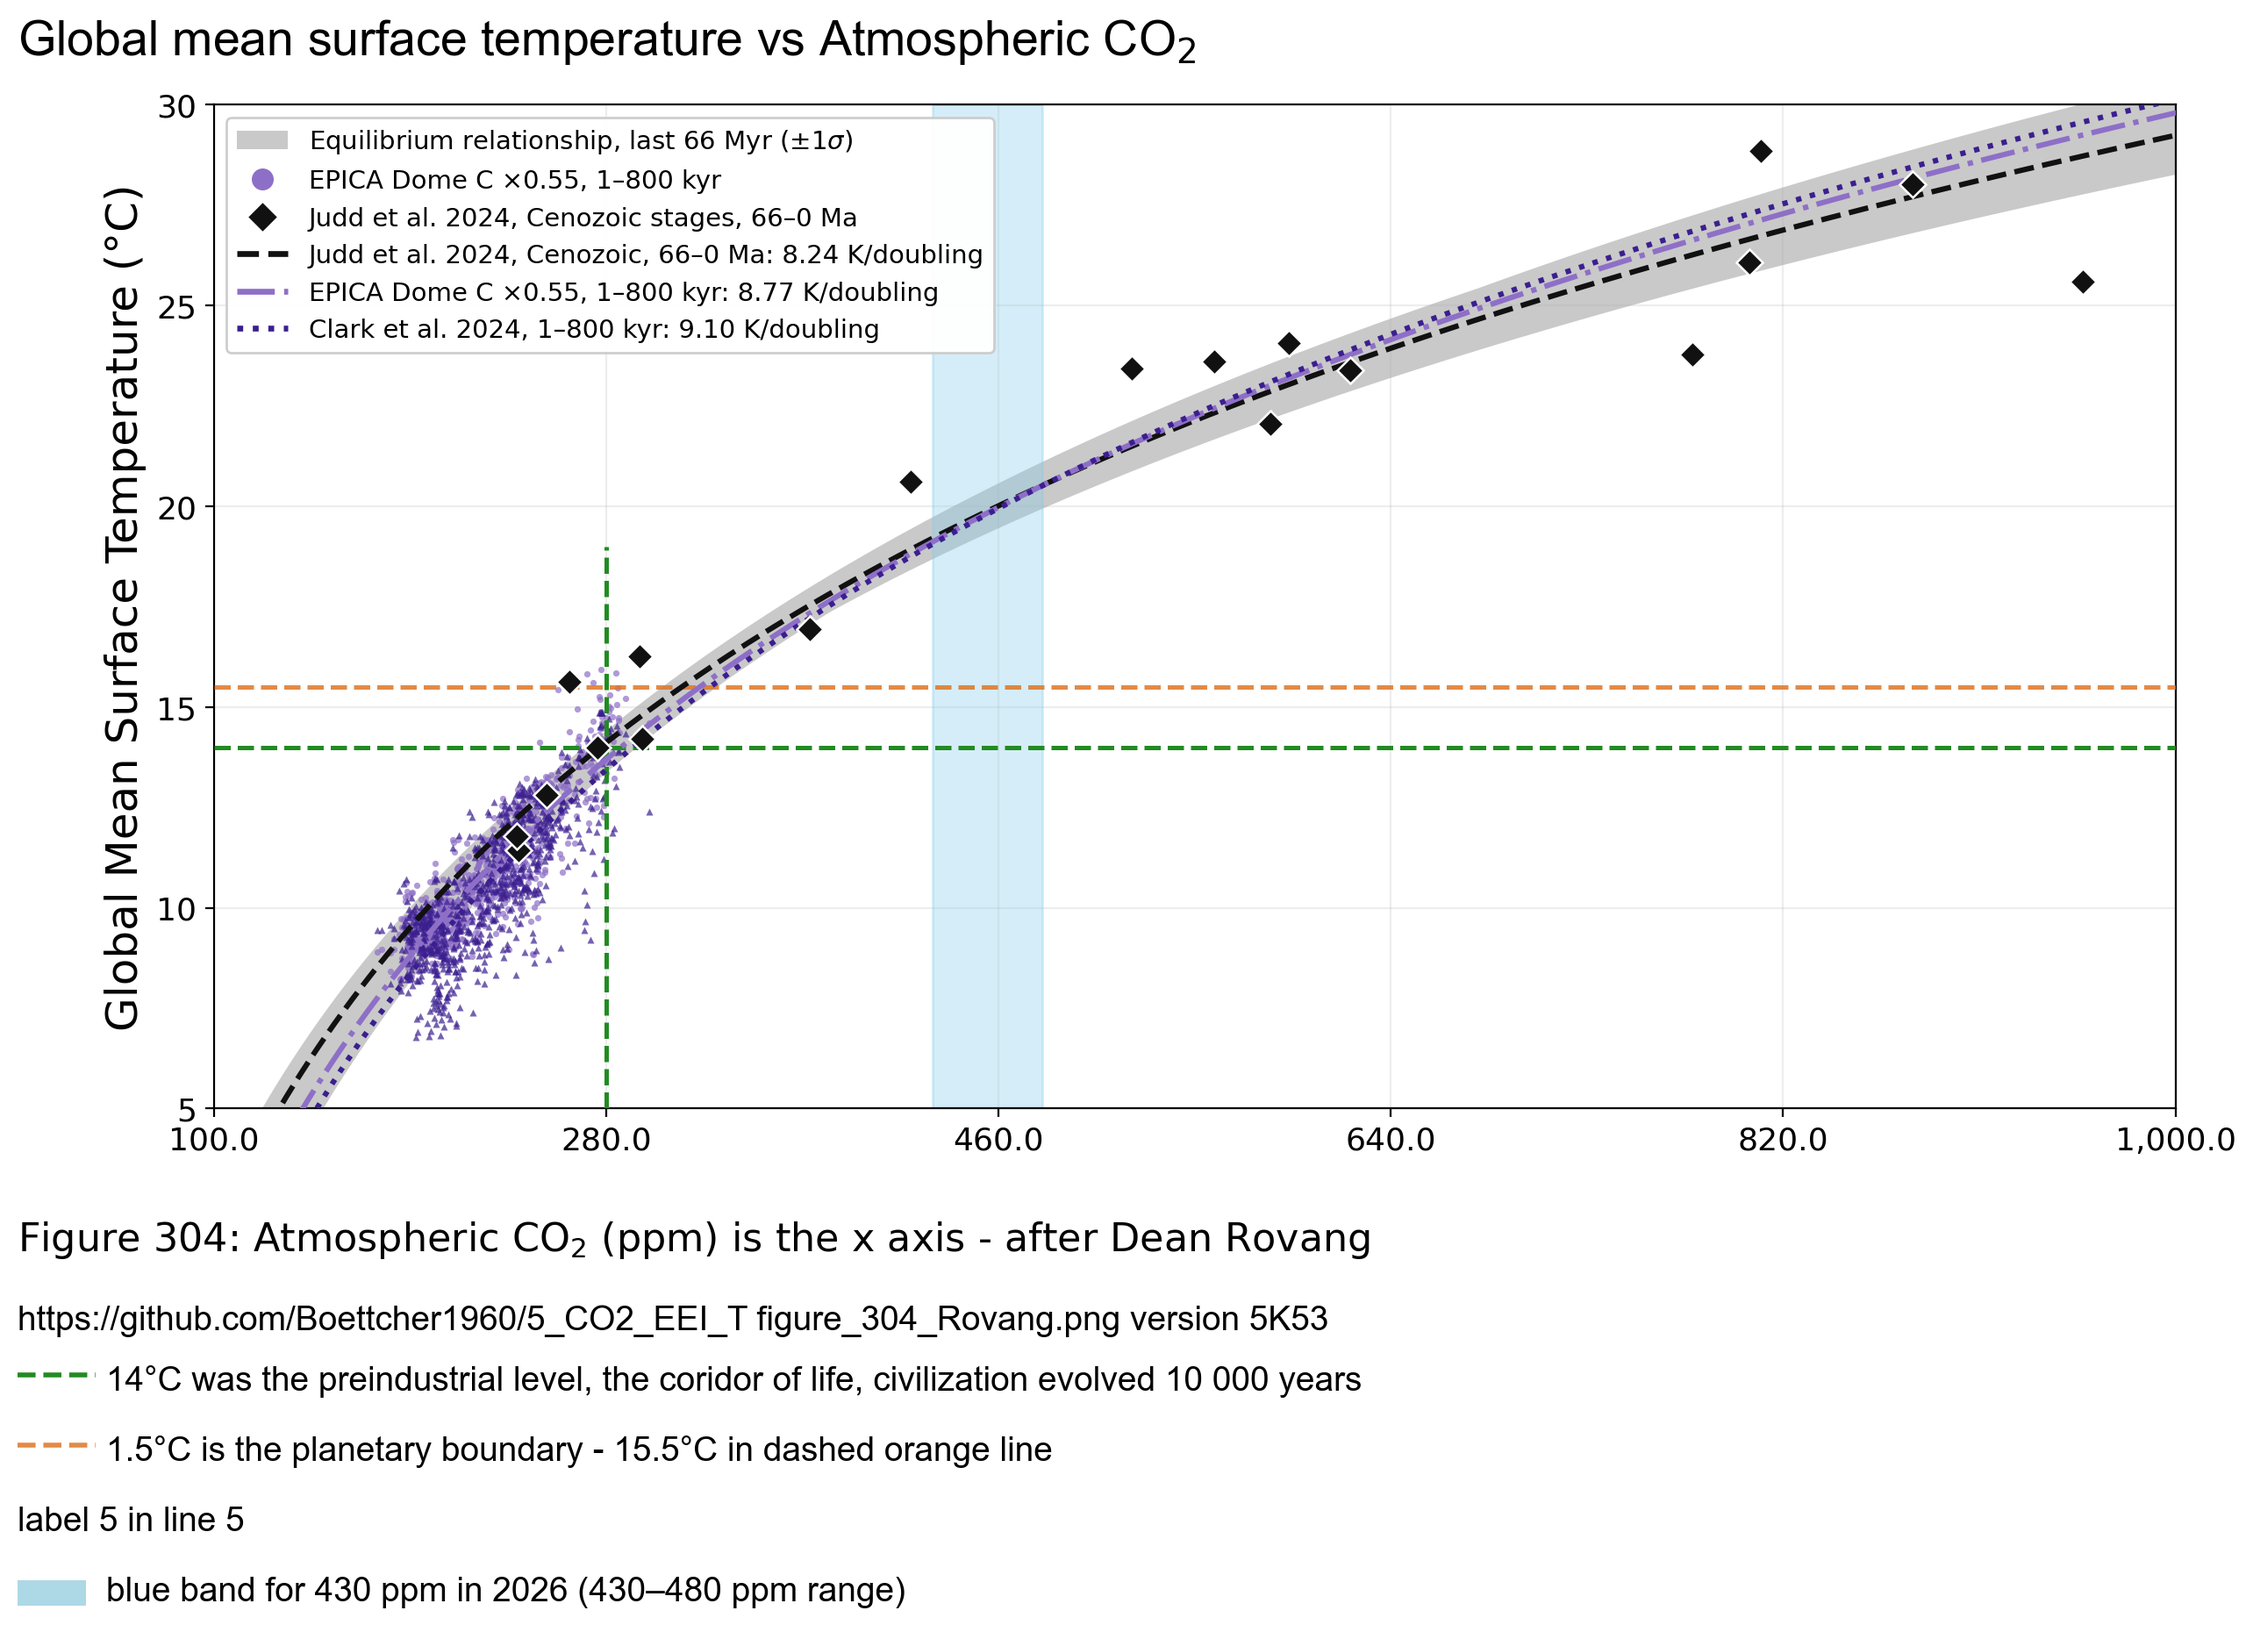
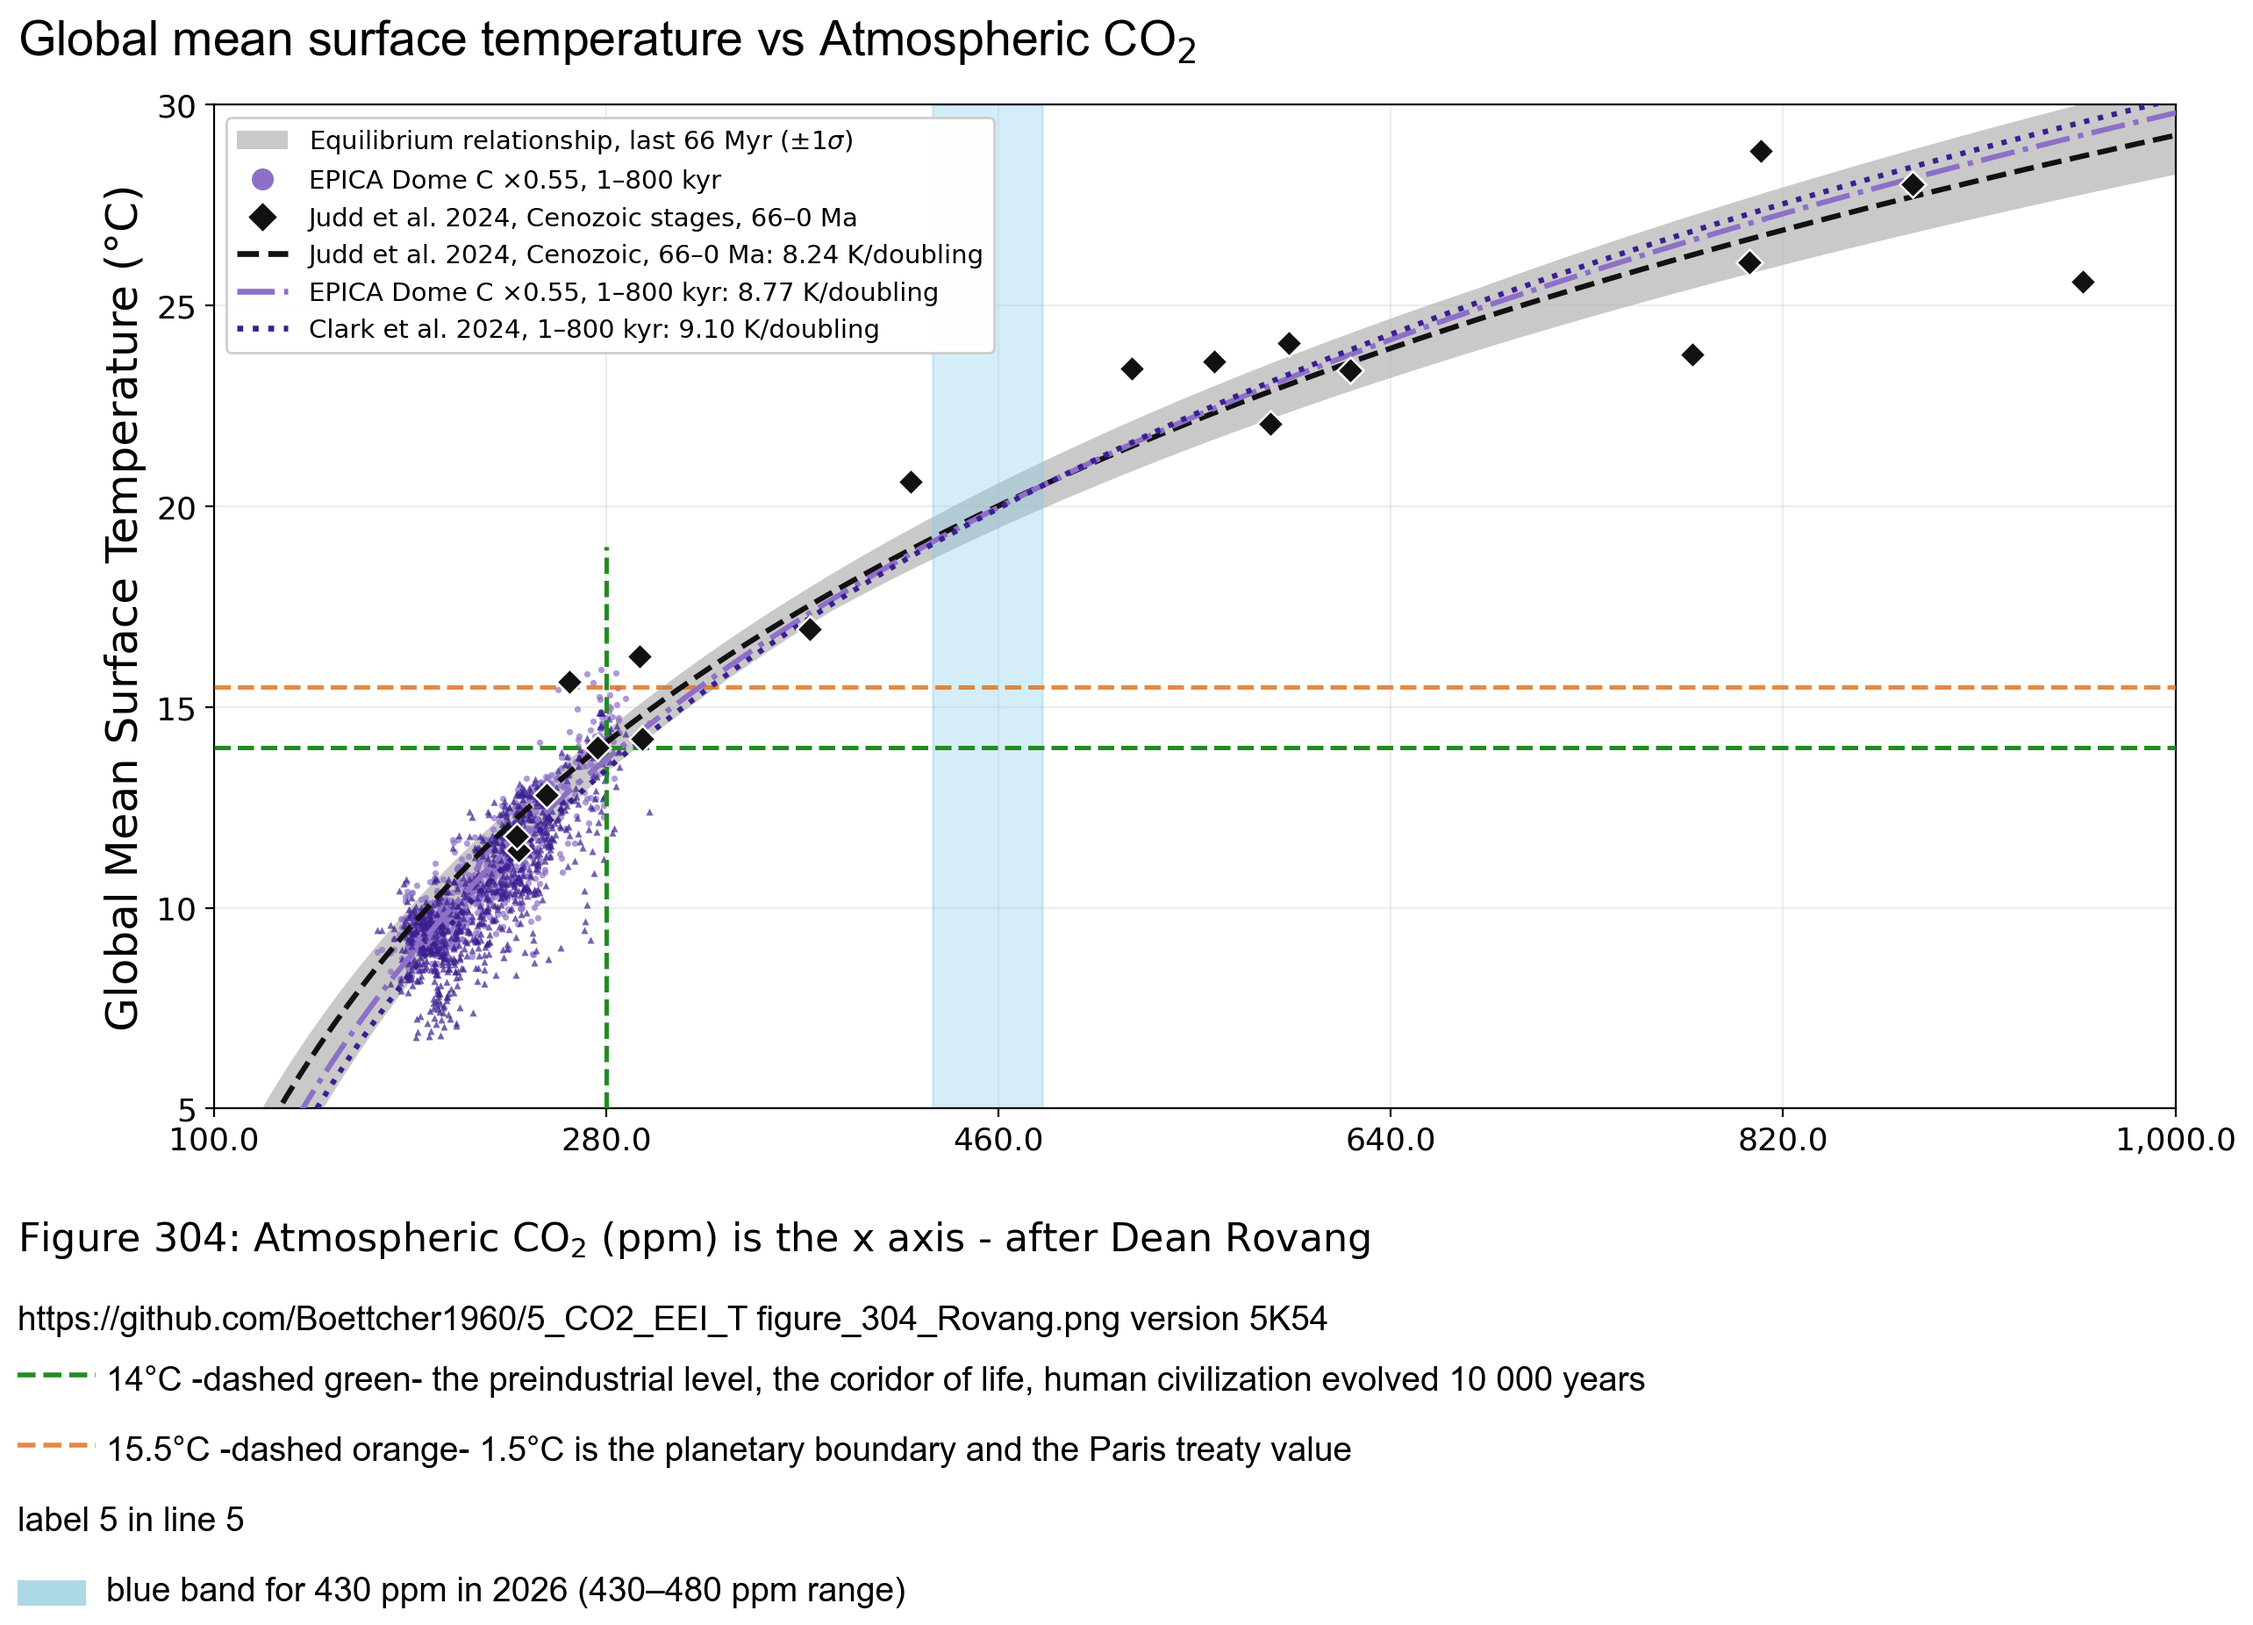
5K54

Changed region(s): [[0.0623, 0.831, 0.7165, 0.9233], [0.5296, 0.8925, 0.5607, 0.9233]]

diff --git a/Rovang/Rovang_figure_303.py b/Rovang/Rovang_figure_303.py
@@ -181,13 +181,11 @@ def _create_figure(linear_x=False):
     c306 = "#87ceeb"
     ax.axvspan(430, 480, color=c306, alpha=0.35, zorder=2)
 
-    # 303.82 green dashed line for 280 ppm the 1850 to 1900 CO2 atmosphere level
+    # 303.92 green dashed line for 280 ppm the 1850 to 1900 CO2 atmosphere level
     ax.plot([280, 280], [5, 19], color=reference_color, ls="--", lw=1.8, zorder=6)
 
 
-
-
-    # 303.101 legend with the 3 fits and the 4 bands
+    # 303.94 legend with the 3 fits and the 4 bands
     handles = [
         Patch(facecolor=GRAY, alpha=0.75,
               label="Equilibrium relationship, last 66 Myr ($\\pm1\\sigma$)"),
@@ -209,40 +207,43 @@ def _create_figure(linear_x=False):
             Line2D([], [], color=color, ls=style, lw=2.4,
                    label=f"{name}: {slope:.2f} K/doubling")
         )
-    # 303.109 plot the legend with the 3 fits and the 4 bands
+    # 303.99 plot the legend with the 3 fits and the 4 bands
     ax.legend(handles=handles, fontsize=10.5, loc="upper left", framealpha=0.96)
 
-    # 303.121 print line 2 github with version number below the plot
+    # 303.101 print line 2 github with version number below the plot
     text_below3 = (f""
                   f"https://github.com/Boettcher1960/5_CO2_EEI_T"
                   f" {filename} version {v} ")
     t3y2 = -0.22    # 303.122 print line 2 t3y2 = -0.22
-    # 303.123 print line 2 github with version number below the plot
+    # 303.103 print line 2 github with version number below the plot
     ax.text(-0.1, t3y2, text_below3, color="black", fontname="Arial", fontsize=14,
             transform=ax.transAxes)
 
-
-    t3y3 = -0.28    # 303.124 print line 3 t3y3 = -0.28
+    # 303.108 print line 3
+    t3y3 = -0.28    
+    # 303.109 print dashed green line left of the text
     ax.plot(
         [-0.1, -0.06], [t3y3 + 0.015, t3y3 + 0.015],
         color=reference_color, ls="--", lw=2,
         transform=ax.transAxes, clip_on=False,
     )
-    label3 = "14\u00b0C was the preindustrial level, the coridor of life, civilization evolved 10 000 years"
-    # 303.128 print the text for line 3 below the plot
+    # 303.110 text for line 3
+    label3 = "14\u00b0C -dashed green- the preindustrial level, the coridor of life, human civilization evolved 10 000 years"
+    # 303.111 print the text for line 3 below the plot
     ax.text(-0.055, t3y3, label3, color="black", fontname="Arial", fontsize=14,
             transform=ax.transAxes)
     
-    # 303.131  fig.subplots_adjust(left=0.12, right=0.98, top=0.88, bottom=0.30)
+    # 303.115  fig.subplots_adjust(left=0.12, right=0.98, top=0.88, bottom=0.30)
     # sets the plot area’s margins within the figure. The values are fractions of the figure dimensions:
     # left=0.12: plot starts 12% from the left.
     # right=0.98: plot ends 2% from the right.
     # top=0.88: plot ends 12% below the top.
     # bottom=0.30: plot starts 30% above the bottom, leaving room below for captions.
     fig.subplots_adjust(left=0.12, right=0.98, top=0.92, bottom=0.40)
-    
-    t3y4 = -0.35    # 303.124 print line 6 
-    label4 = "1.5°C is the planetary boundary - 15.5°C in dashed orange line"
+
+    # 303.118 print line 4
+    t3y4 = -0.35    
+    label4 = "15.5°C -dashed orange- 1.5°C is the planetary boundary and the Paris treaty value"
     ax.plot(
         [-0.1, -0.06], [t3y4 + 0.015, t3y4 + 0.015], color=c305, ls="--", lw=2,
         transform=ax.transAxes, clip_on=False,

diff --git a/main.py b/main.py
@@ -1,5 +1,5 @@
 # main.py
-v = "5K53" # make 4 text lines below the plot like in text_9_print_7_lines():
+v = "5K54" # make 4 text lines below the plot like in text_9_print_7_lines():
 # https://github.com/Boettcher1960/5_CO2_EEI_T
 # ocean stratification https://bsky.app/profile/thomas-boettcher.bsky.social/post/3mj7zx7fzsc26
 # https://drtomharris.substack.com/p/the-great-decoupling-how-ocean-stratification
